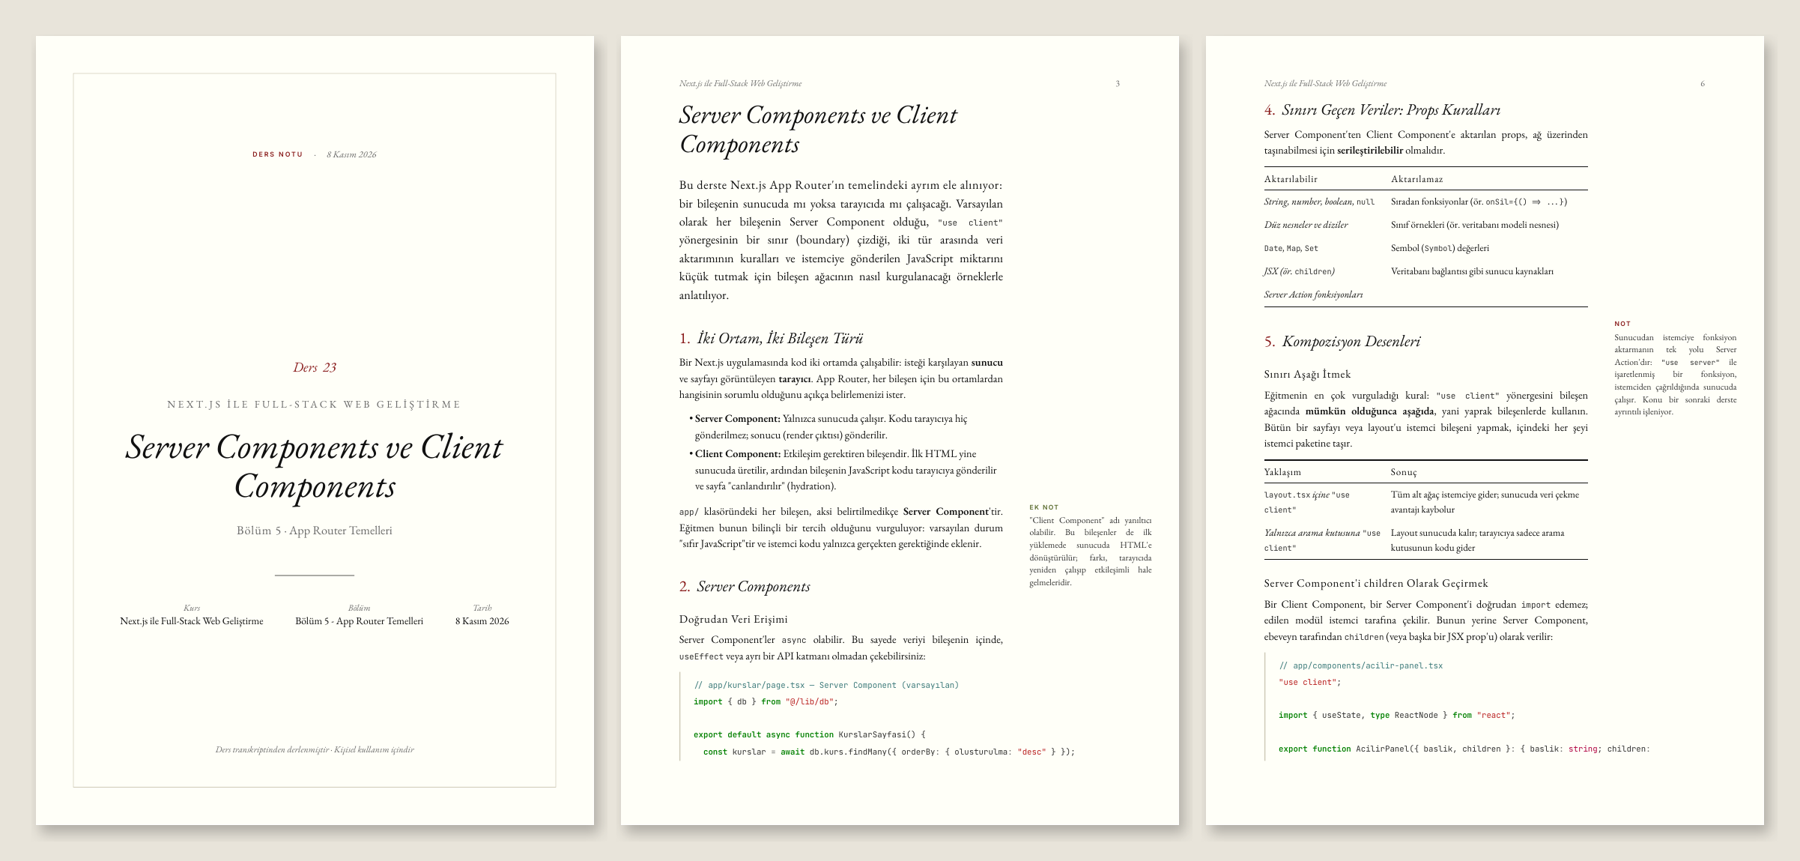
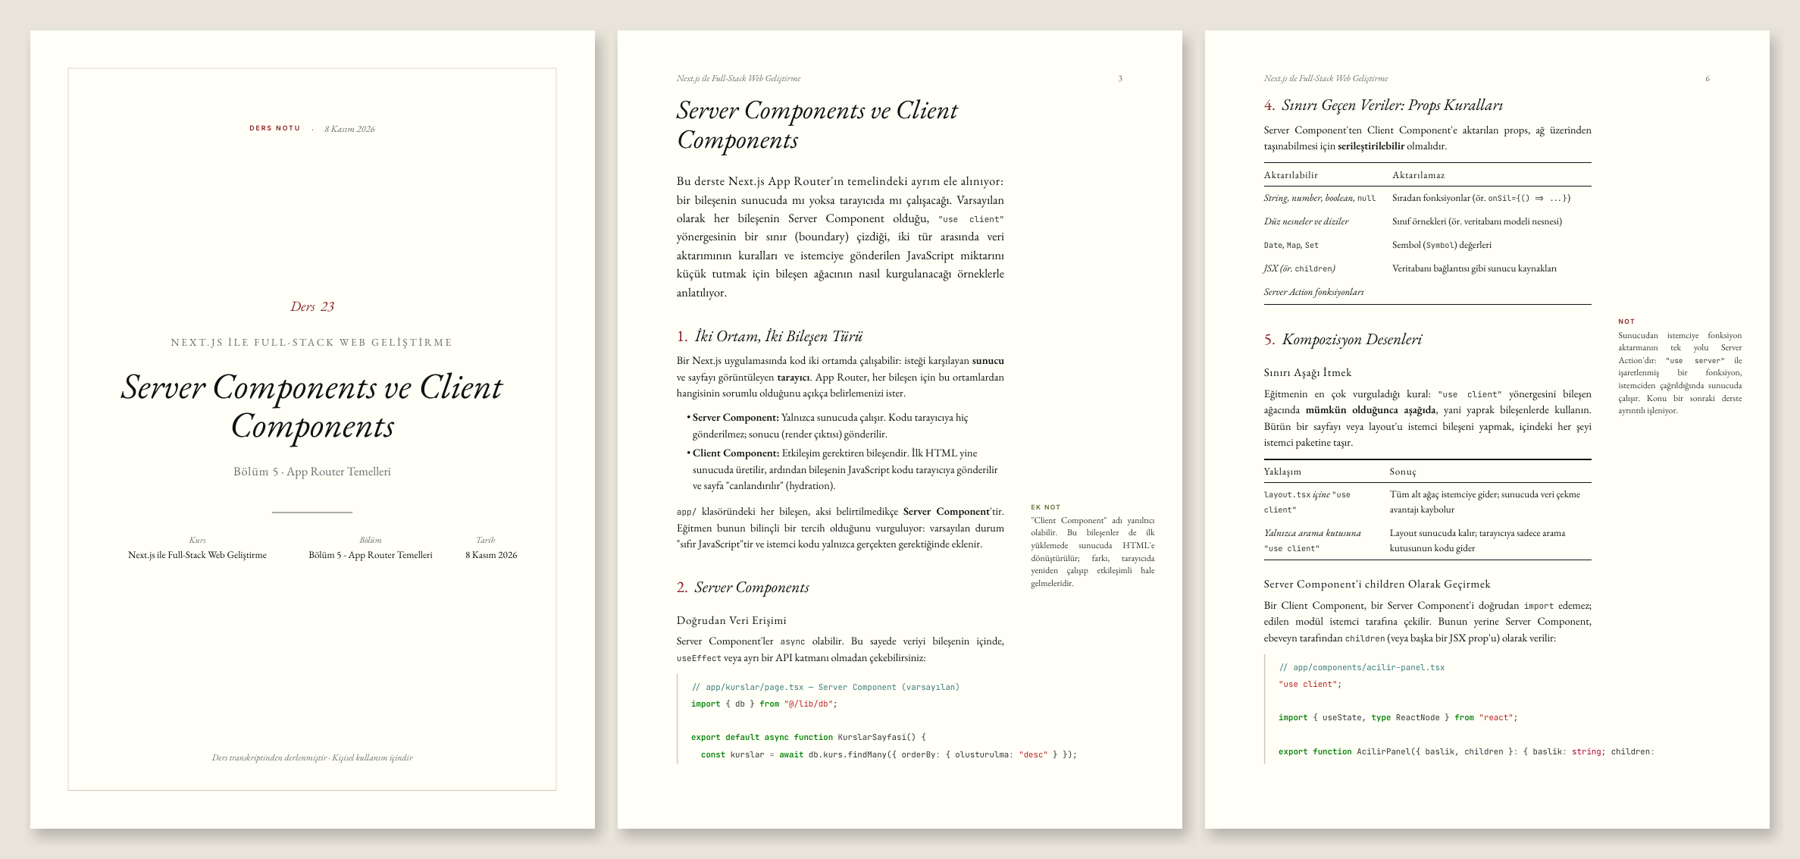
Fix cover overflow with long texts; add automatic preview
- Cover: course/section/date row wraps in fixed columns, the date stays
  on one line, long lecture titles use a smaller size, and the main block
  is centred on the page
- Long inline code wraps inside margin notes, tables and body text
- Running-header strings come from hidden spans in normal flow
- scripts/preview.py renders the cover and first content pages into one
  image; SKILL.md now always checks it and shows it with the PDF
- CHANGELOG: first release is v0.1.0 (matches the tag); new Unreleased
  section; README preview image regenerated

Claude-Session: https://claude.ai/code/session_01NGMLsuTRGWJW4kAobrA52Z

diff --git a/assets/themes/academic.css b/assets/themes/academic.css
@@ -19,24 +19,31 @@
 @page :first { margin: 0; @top-left { content: none; } @top-right { content: none; } }
 
 /* ---------- Cover ---------- */
-.cover { background: #fffff8; padding: 40mm 30mm 26mm; text-align: center; }
+/* Top bar at the top, footer at the bottom, and the main block centred on the page.
+   Every text block can wrap, so long course/section/lecture names never leave the page. */
+.cover { background: #fffff8; padding: 32mm 30mm 24mm; text-align: center; }
 .cover .cover-art { inset: 14mm; border: .6pt solid #cfcab8; }
 .cover .cover-top { justify-content: center; gap: 4mm; font: italic 400 10pt var(--font-head); color: var(--muted-fg); }
 .cover .badge { font: 600 7pt var(--font-label); letter-spacing: .22em; text-transform: uppercase; color: var(--accent); }
 .cover .cover-date::before { content: "·"; margin-right: 4mm; }
-.cover .cover-main { margin-top: 72mm; }
-.cover .cover-num { font: italic 400 15pt var(--font-head); color: var(--accent); margin-bottom: 8mm; }
+.cover .cover-center { position: absolute; left: 30mm; right: 30mm; top: 50%; transform: translateY(-50%); }
+.cover .cover-num { font: italic 400 15pt var(--font-head); color: var(--accent); margin-bottom: 7mm; }
 .cover .cover-num .lbl { margin-right: 2mm; }
-.cover .eyebrow { font: 400 11pt var(--font-head); letter-spacing: .24em; text-transform: uppercase; color: var(--muted-fg); margin-bottom: 6mm; }
-.cover h1.title { font: italic 400 38pt/1.08 var(--font-head); color: var(--fg); }
-.cover .desc { font: 400 13pt var(--font-head); color: var(--muted-fg); margin-top: 7mm; }
+.cover .eyebrow { font: 400 11pt/1.5 var(--font-head); letter-spacing: .2em; text-transform: uppercase; color: var(--muted-fg); margin-bottom: 6mm; }
+.cover h1.title { font: italic 400 38pt/1.08 var(--font-head); color: var(--fg); overflow-wrap: break-word; }
+.cover h1.title.long { font-size: 30pt; }
+.cover h1.title.xlong { font-size: 24pt; line-height: 1.15; }
+.cover .desc { font: 400 13pt/1.4 var(--font-head); color: var(--muted-fg); margin-top: 7mm; }
 .cover .desc b { font-weight: 400; font-variant: small-caps; letter-spacing: .06em; }
-.cover .separator { width: 30mm; height: 0; border-top: .6pt solid var(--fg); margin: 14mm auto 10mm; }
-.cover .meta { justify-content: center; gap: 12mm; }
-.cover .meta div { flex: none; }
-.cover .meta .k { font: italic 400 9.5pt var(--font-head); color: var(--muted-fg); }
-.cover .meta .v { font: 400 11pt var(--font-head); }
-.cover > .foot { position: absolute; left: 0; right: 0; bottom: 26mm; font: italic 400 9.5pt var(--font-head); color: var(--muted-fg); }
+.cover .separator { width: 30mm; height: 0; border-top: .6pt solid var(--fg); margin: 12mm auto 8mm; }
+/* Course / section / date: a fixed three-column row whose cells wrap instead of overflowing */
+.cover .meta { display: table; table-layout: fixed; width: 100%; border-collapse: collapse; }
+.cover .meta div { display: table-cell; vertical-align: top; padding: 0 3mm; overflow-wrap: break-word; }
+.cover .meta div:first-child, .cover .meta div:nth-child(2) { width: 39%; }
+.cover .meta div:last-child { white-space: nowrap; }  /* the date never wraps */
+.cover .meta .k { font: italic 400 9.5pt var(--font-head); color: var(--muted-fg); margin-bottom: .8mm; }
+.cover .meta .v { font: 400 10.5pt/1.35 var(--font-head); }
+.cover > .foot { position: absolute; left: 30mm; right: 30mm; bottom: 24mm; font: italic 400 9.5pt var(--font-head); color: var(--muted-fg); }
 
 /* ---------- Table of contents ---------- */
 .toc h2 { font: italic 400 24pt var(--font-head); margin: 0 0 1mm; }
@@ -63,7 +70,7 @@ h2#ozet + p { font-size: 13pt; line-height: 1.5; margin-bottom: 8mm; }
 h2#ozet + p::first-line { font-variant: small-caps; letter-spacing: .04em; }
 
 /* ---------- Code ---------- */
-code { font-size: 8.8pt; color: #333; }
+code { font-size: 8.8pt; color: #333; overflow-wrap: anywhere; }
 .code-block { border-left: 1.2pt solid var(--rule); padding-left: 1mm; margin-right: -46mm; }
 .code-block .code-title { position: absolute; display: none; }
 pre { padding: 1.5mm 4mm; color: #222; }
@@ -75,16 +82,17 @@ thead th { font: 400 10.5pt var(--font-head); font-variant: small-caps; letter-s
 tbody td { padding: 1.6mm 3mm 1.6mm 0; }
 tbody td:first-child { font-style: italic; }
 td code { font-size: 8.2pt; }
+td, th { overflow-wrap: anywhere; }
 
 /* ---------- Marginal notes: alerts move into the right margin ---------- */
 .alert {
   float: right; clear: right; width: 46mm; margin: 0 -56mm 3mm 0;
-  display: block; font: 400 9.5pt/1.4 var(--font-body); color: #333;
+  display: block; font: 400 9.5pt/1.4 var(--font-body); color: #333; overflow-wrap: anywhere;
 }
 .alert .icon { display: none; }
 .alert .alert-title { font: 600 6.8pt var(--font-label); letter-spacing: .16em; text-transform: uppercase; color: var(--accent); margin-bottom: 1mm; }
 .alert.tip .alert-title { color: #5a6b2e; }
-.alert .alert-desc code { font-size: 7.6pt; }
+.alert .alert-desc code { font-size: 7.6pt; overflow-wrap: anywhere; }
 blockquote { margin: 4mm 6mm; font-style: italic; }
 
 /* Alerts inside the "Dikkat Edilmesi Gerekenler" section stay inline */

diff --git a/assets/themes/_base.css b/assets/themes/_base.css
@@ -21,8 +21,10 @@ li { margin: 1mm 0; }
 .cover .meta div { flex: 1; }
 .cover .meta .k, .cover .meta .v { display: block; }
 .cover .foot { margin-top: auto; }
+/* Running-header strings come from hidden spans in normal flow
+   (string-set is ignored on elements inside absolutely positioned boxes). */
 .s-lecture { string-set: lecture content(); display: block; height: 0; overflow: hidden; font-size: 0; }
-.cover .eyebrow { string-set: course content(); }
+.s-course { string-set: course content(); display: block; height: 0; overflow: hidden; font-size: 0; }
 
 /* Table of contents */
 .toc { page-break-after: always; }

diff --git a/scripts/preview.py b/scripts/preview.py
@@ -1,0 +1,106 @@
+#!/usr/bin/env python3
+"""Render a preview image of a note PDF: the cover and the first content pages side by side.
+
+Usage:
+    python3 preview.py note.pdf -o preview.png [--pages 1,3,4] [--dpi 70]
+
+Default pages: the cover, the first content page (page 3 when there is a table of contents)
+and the page after it. Uses pdftoppm (poppler) when installed, otherwise PyMuPDF; prints a
+clear message and exits with code 2 when neither is available.
+"""
+import argparse
+import shutil
+import subprocess
+import sys
+import tempfile
+from pathlib import Path
+
+
+def page_count(pdf: Path) -> int:
+    try:
+        import fitz  # PyMuPDF
+        with fitz.open(pdf) as doc:
+            return doc.page_count
+    except ImportError:
+        pass
+    if shutil.which("pdfinfo"):
+        out = subprocess.run(["pdfinfo", str(pdf)], capture_output=True, text=True).stdout
+        for line in out.splitlines():
+            if line.startswith("Pages:"):
+                return int(line.split()[1])
+    return 0
+
+
+def render_pages(pdf: Path, pages, dpi: int, tmp: Path):
+    """Return a list of PIL images, one per requested page."""
+    from PIL import Image
+    images = []
+    if shutil.which("pdftoppm"):
+        for n in pages:
+            stem = tmp / f"p{n}"
+            subprocess.run(["pdftoppm", "-r", str(dpi), "-png", "-f", str(n), "-l", str(n),
+                            "-singlefile", str(pdf), str(stem)], capture_output=True)
+            if Path(f"{stem}.png").exists():  # pages beyond the end are simply skipped
+                images.append(Image.open(f"{stem}.png").convert("RGB"))
+        return images
+    try:
+        import fitz
+    except ImportError:
+        return None
+    with fitz.open(pdf) as doc:
+        for n in pages:
+            pix = doc[n - 1].get_pixmap(dpi=dpi)
+            images.append(Image.frombytes("RGB", (pix.width, pix.height), pix.samples))
+    return images
+
+
+def compose(images, out: Path, max_width: int = 1800):
+    from PIL import Image, ImageDraw, ImageFilter
+    w, h = images[0].size
+    pad, gap = 40, 30
+    canvas = Image.new("RGB", (pad * 2 + w * len(images) + gap * (len(images) - 1), pad * 2 + h), "#e8e4da")
+    for i, im in enumerate(images):
+        x, y = pad + i * (w + gap), pad
+        shadow = Image.new("RGBA", (w + 24, h + 24), (0, 0, 0, 0))
+        ImageDraw.Draw(shadow).rectangle([12, 12, w + 12, h + 12], fill=(0, 0, 0, 55))
+        shadow = shadow.filter(ImageFilter.GaussianBlur(8))
+        canvas.paste(shadow, (x - 6, y - 2), shadow)
+        canvas.paste(im, (x, y))
+    canvas.thumbnail((max_width, max_width))
+    canvas.save(out, optimize=True)
+
+
+def main():
+    ap = argparse.ArgumentParser(description="Preview image of a note PDF")
+    ap.add_argument("pdf")
+    ap.add_argument("-o", "--output", help="PNG path (default: <pdf>-preview.png next to the PDF)")
+    ap.add_argument("--pages", help="Comma-separated page numbers (default: cover + first content pages)")
+    ap.add_argument("--dpi", type=int, default=70)
+    a = ap.parse_args()
+
+    pdf = Path(a.pdf)
+    out = Path(a.output) if a.output else pdf.with_name(pdf.stem + "-preview.png")
+    total = page_count(pdf)
+    if a.pages:
+        pages = [int(p) for p in a.pages.split(",") if p.strip()]
+    else:
+        pages = [1, 3, 4] if (total >= 4 or not total) else list(range(1, total + 1))[:3]
+    if total:
+        pages = [p for p in pages if 1 <= p <= total] or [1]
+
+    try:
+        import PIL  # noqa: F401
+    except ImportError:
+        sys.exit("Preview needs Pillow: pip install pillow")
+    with tempfile.TemporaryDirectory() as tmp:
+        images = render_pages(pdf, pages, a.dpi, Path(tmp))
+        if not images:
+            print("No PDF rasterizer found (install poppler for pdftoppm, or pip install pymupdf).",
+                  file=sys.stderr)
+            sys.exit(2)
+        compose(images, out)
+    print(f"Preview: {out} (pages {', '.join(map(str, pages))} of {total or '?'})")
+
+
+if __name__ == "__main__":
+    main()

diff --git a/scripts/build_pdf.py b/scripts/build_pdf.py
@@ -183,6 +183,9 @@ def render_html(md_text: str, meta: dict, toc: bool, theme: str = DEFAULT_THEME)
     bm = re.match(r"^\s*(?:Bölüm|Section)?\s*(\d+)\s*[-–—:.]\s*(.+)$", section, re.I)
     section_no, section_title = (bm.group(1), bm.group(2)) if bm else ("", section)
 
+    # smaller cover title for long lecture names, so the cover never spills onto a second page
+    title_size = " xlong" if len(lecture_title) > 80 else (" long" if len(lecture_title) > 45 else "")
+
     meta_cells = "".join(
         f'<div><span class="k">{k}</span><span class="v">{e(v)}</span></div>'
         for k, v in [("Kurs", course), ("Bölüm", section), ("Tarih", date_str)] if v)
@@ -190,16 +193,17 @@ def render_html(md_text: str, meta: dict, toc: bool, theme: str = DEFAULT_THEME)
         '<section class="cover"><div class="cover-art"></div>'
         f'<div class="cover-top"><span class="badge">Ders Notu</span>'
         f'<span class="cover-date">{date_str}</span></div>'
-        '<div class="cover-main">'
+        '<div class="cover-center"><div class="cover-main">'
         + (f'<div class="cover-num"><span class="lbl">Ders</span>{e(lecture_no)}</div>' if lecture_no else "")
         + (f'<div class="eyebrow">{e(course)}</div>' if course else "")
-        + f'<h1 class="title">{e(lecture_title)}</h1>'
+        + f'<h1 class="title{title_size}">{e(lecture_title)}</h1>'
         + (f'<div class="desc">{"<b>Bölüm " + e(section_no) + "</b> · " if section_no else ""}{e(section_title)}</div>'
            if section else "")
         + '</div><div class="separator"></div>'
-        + f'<div class="meta">{meta_cells}</div>'
+        + f'<div class="meta">{meta_cells}</div></div>'
         + '<div class="foot">Ders transkriptinden derlenmiştir · Kişisel kullanım içindir</div>'
-        '<span class="s-lecture">' + e(lecture) + '</span></section>'
+        '<span class="s-lecture">' + e(lecture) + '</span>'
+        '<span class="s-course">' + e(course) + '</span></section>'
     )
 
     toc_html = ""

diff --git a/SKILL.md b/SKILL.md
@@ -175,11 +175,18 @@ Other commands: `--reindex --root <root> [--course <slug>]` rebuilds indexes fro
 
 PDF rendering uses WeasyPrint, with a fallback to installed Chrome/Edge. On macOS, WeasyPrint needs `brew install pango`; without it the script falls back to Chrome automatically. If every engine fails, the script prints a `WARNING ... PDF not created (...)` line but still saves the Markdown and updates the indexes. Tell the user the PDF is missing and quote the reason.
 
-## 5. Check and report
+## 5. Preview, check and show the result
 
-Check the PDF once with whatever is available:
-- If you can render pages to images (e.g. `pdftoppm -r 60 -f 1 -l 3 file.pdf out`), look at the cover and the first content pages: Turkish characters, code blocks, tables, margin notes.
-- Otherwise run `pdftotext file.pdf - | head -40` and confirm the Turkish characters (ç ğ ı İ ö ş ü) come through.
-- If neither tool exists, skip the check.
+Always show the result without being asked; the user should never have to request a preview.
 
-Then reply in one or two sentences: which lecture was saved, where, and the course's lecture count. Do not paste the note's content into the chat. If you made an assumption (course name, lecture split, missing section number), say so in one line.
+1. **Render a preview image** of each saved PDF (cover and the first content pages side by side). Write it to the scratch location (Notlas project: `transcripts/`), never into `<root>`:
+   ```bash
+   python3 <skill>/scripts/preview.py <root>/<course>/pdf/<section>/<lecture>.pdf -o <scratch>/<lecture>-preview.png
+   ```
+   If it exits with code 2 (no rasterizer available), skip the image and run `pdftotext <pdf> - | head -40` instead to confirm the Turkish characters (ç ğ ı İ ö ş ü) come through.
+2. **Look at the preview yourself** before showing it: text running off the page or overlapping, missing Turkish characters, broken code blocks or tables. If something is wrong, fix the note and save it again, then re-render the preview.
+3. **Show it in the final reply**, using what the environment offers:
+   - In a chat app with a tool for sending or presenting files to the user: send the preview PNG (it displays inline) and the PDF itself (so it opens in the viewer). For several lectures, send every PDF and the preview of the first one.
+   - In Claude Code: print the absolute paths of the PDF and the preview, since the desktop app makes them clickable. On macOS, also open the PDF with `open "<pdf>"`, unless the user said not to.
+   - If no preview could be made, still send or open the PDF.
+4. **Reply in one or two sentences:** which lecture was saved, where, and the course's lecture count. Do not paste the note's content into the chat. If you made an assumption (course name, lecture split, missing section number), say so in one line.

diff --git a/README.md b/README.md
@@ -11,6 +11,7 @@ Notes are written in Turkish; technical terms keep their original English in par
 1. You give Claude a transcript plus the course name and section/lecture titles (and optionally the course description).
 2. Claude re-teaches the lecture as a Markdown note: summary, topic sections, runnable code, a concept table, pitfalls and review questions.
 3. `scripts/save_note.py` validates the note, stores it in the repository, renders the PDF and rebuilds the indexes.
+4. Claude shows the result right away: a preview image of the cover and first pages, plus the PDF.
 
 ## Notes repository
 
@@ -73,6 +74,7 @@ python3 scripts/save_note.py note.md --root courses \
 python3 scripts/save_note.py --list-courses --root courses       # existing courses
 python3 scripts/save_note.py --reindex --root courses [--prune]  # rebuild indexes from disk
 python3 scripts/build_pdf.py note.md -o note.pdf                      # PDF only
+python3 scripts/preview.py note.pdf -o preview.png                   # cover + first pages as one image
 ```
 
 `save_note.py` refuses misspelled section headings, course names that look like an existing course, and saves that would replace a different lecture; each check names the flag that overrides it. If PDF rendering fails, the note and indexes are still saved and a warning explains why.
@@ -87,6 +89,7 @@ CLAUDE.md                   # project-folder workflow
 scripts/clean_transcript.py # strips timestamps and repeated caption lines
 scripts/save_note.py        # validates and stores notes, builds INDEX.md / course.json / README.md
 scripts/build_pdf.py        # Markdown → PDF
+scripts/preview.py          # PDF → preview image shown after each save
 assets/themes/academic.css  # Tufte-style theme: ivory paper, EB Garamond, margin notes
 assets/fonts/               # EB Garamond, Inter, JetBrains Mono (SIL OFL, full Turkish coverage)
 docs/preview.png            # sample output shown above

diff --git a/CHANGELOG.md b/CHANGELOG.md
@@ -1,6 +1,17 @@
 # Changelog
 
-## v1.0.0 — 2026-11-08
+## Unreleased
+
+### Fixed
+
+- **Cover layout with long texts.** Long course, section or lecture names no longer run off the cover: the course / section / date row is a fixed three-column row whose cells wrap, the date stays on one line, long lecture titles get a smaller cover font, and the cover block is vertically centred.
+- **Long inline code** (identifiers in margin notes, table cells and body text) wraps inside its column instead of leaving the page; short identifiers are not split.
+
+### Added
+
+- **Automatic preview.** After each save Claude renders the cover and first content pages into one image (`scripts/preview.py`), checks it, and shows it together with the PDF without being asked. In Claude Code on macOS the PDF is also opened directly.
+
+## v0.1.0 — 2026-11-08
 
 First public release of **Notlas** (*not + atlas*), a Claude skill that turns course lecture transcripts into structured Turkish study notes, saved as an academic-style PDF for reading and as Markdown in an indexed repository that AI agents can use as a knowledge source.
 

diff --git a/CLAUDE.md b/CLAUDE.md
@@ -7,7 +7,8 @@ This folder is both the **source of the Notlas skill** and the user's **personal
 When the user shares a lecture transcript (pasted, attached, or dropped into `transcripts/`), follow `SKILL.md` in this folder. In this project:
 
 - The repository root is always `courses/` (pass `--root courses`).
-- Read transcripts from `transcripts/` and write cleaned text and note drafts there too. Never write drafts into `courses/`.
+- Read transcripts from `transcripts/` and write cleaned text, note drafts and preview images there too. Never write drafts or previews into `courses/`.
+- After saving, open the PDF with `open "<pdf>"` (macOS) and print the paths of the PDF and its preview.
 - Run the scripts from this folder: `python3 scripts/save_note.py transcripts/<note>.md --root courses`.
 
 ## Folders
